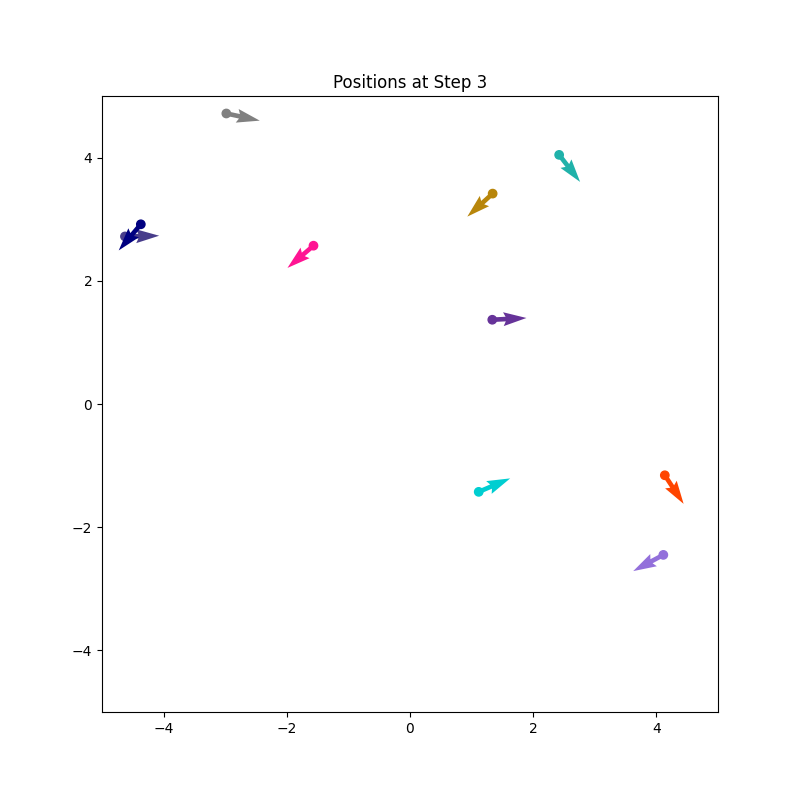
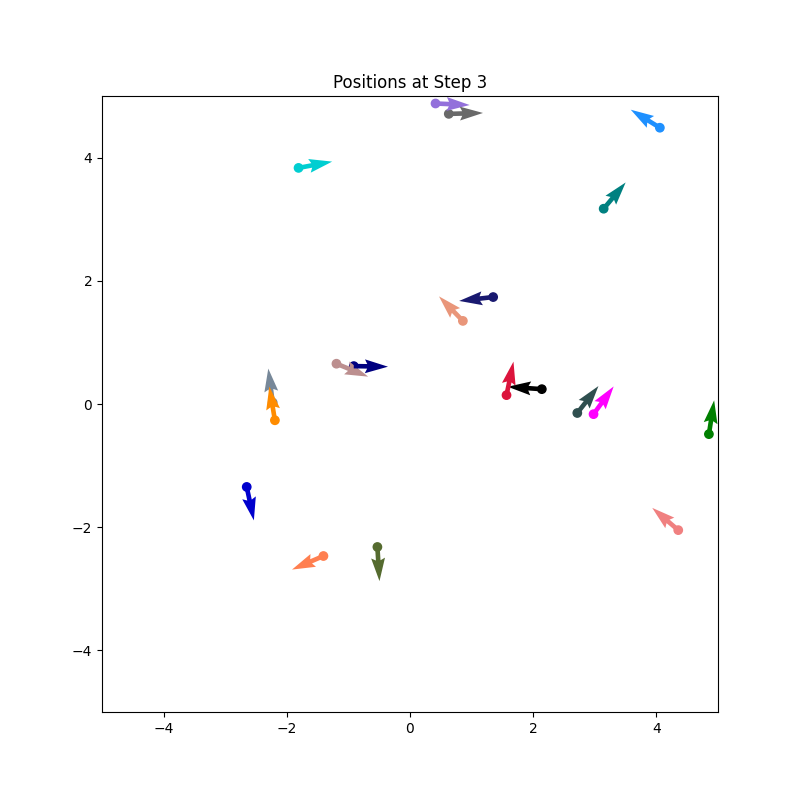
stericforces, compute_forces updated

diff --git a/Code/vicsek.py b/Code/vicsek.py
@@ -7,7 +7,7 @@ from squirmer import Squirmer
 
 class Vicsek_continous:
 
-    def __init__(self, N, R, L, v0, beta, radius, T, dt, noise):
+    def __init__(self, N, R, L, v0, beta, radius, Es, T, dt, noise):
         self.N = N
         self.R = R
         self.L = L
@@ -16,6 +16,7 @@ class Vicsek_continous:
         self.dt = dt
         self.noise = noise
         self.radius = radius
+        self.Es = Es
         self.size = L/R
         self.density = (N*R**2)/(L**2)
         self.ratio = v0/R
@@ -66,11 +67,11 @@ class Vicsek_continous:
         Dx = self.vector_x(particle1, particle2)
         Dy = self.vector_y(particle1, particle2)
         dist = self.distance(particle1, particle2)
-        #we set self.Es = 1 => Es/a = 1/a
-        tmp = -3*(1/a)*(2*(2*a/dist)**13-(2*a/dist)**7)/np.sqrt(dist)
-        print(tmp)
-        Fs_x = tmp * Dx
-        Fs_y = tmp * Dy
+
+        tmp = -3*(self.Es/a)*(2*(2*a/dist)**13-(2*a/dist)**7)/np.sqrt(dist)
+        print(f"tmp = {tmp}")
+        Fs_x =  Dx
+        Fs_y = Dy
         return Fs_x, Fs_y
 
     def ref_border_x(self, particle, boundary):
@@ -127,20 +128,20 @@ class Vicsek_continous:
             dist = self.dist_particles(particle)
             for j in range(len(dist)):
                 if dist[j] != 0 and dist[j]<=self.R:
-                    tmp_x, tmp_y = self.forcesSteric(particle, self.particles[j])
-                    self.Fs_x[i] += tmp_x
-                    self.Fs_y[i] += tmp_y
-                    self.Fs_x[j] -= tmp_x
-                    self.Fs_y[j] -= tmp_y           
+                    Fs_x, Fs_y = self.forcesSteric(particle, self.particles[j])
+                    particle.x -= self.dt*Fs_x
+                    particle.y -= self.dt*Fs_y
+                    self.particles[j].x += self.dt*Fs_x
+                    self.particles[j].y += self.dt*Fs_y        
 
     def update_position(self):
         #Update position of each particle
         self.compute_forces()
         for i, particle in enumerate(self.particles):
-            if self.Fs_x[i] != 0:
-                print(f"Fs_x{i} = {self.Fs_x[i]}")
-            if self.Fs_y[i] != 0:
-                print(f"Fs_y{i} = {self.Fs_y[i]}")
+            # if self.Fs_x[i] != 0:
+            #     print(f"Fs_x{i} = {self.Fs_x[i]}")
+            # if self.Fs_y[i] != 0:
+            #     print(f"Fs_y{i} = {self.Fs_y[i]}")
             particle.x += self.v0*self.dt*(np.cos(particle.orientation) + self.Fs_x[i])
             particle.y += self.v0*self.dt*(np.sin(particle.orientation) + self.Fs_y[i])
 
@@ -168,17 +169,18 @@ class Vicsek_continous:
         ax.set_ylim(-self.L / 2, self.L / 2)
         ax.set_aspect('equal')
 
-N = 10
+N = 20
 R = 0.25
 L = 10.0
 v0 = 1.0
 beta = 0.5
 radius = 0.1
-T = 10.0
-dt = 1
+T = 1
+dt = 0.1
 noise = 0.1
+Es = 1
 
-vicsek_model = Vicsek_continous(N, R, L, v0, beta, radius, T, dt, noise)
+vicsek_model = Vicsek_continous(N, R, L, v0, beta, radius, Es, T, dt, noise)
 
 #Plots initial positions and save the figure
 fig, ax = plt.subplots(figsize=(8, 8))
@@ -186,11 +188,11 @@ vicsek_model.plot(ax)
 plt.title("Initial Positions")
 plt.savefig("vicsek_initial_positions.png")
 plt.close()
-w = 0
-for particle in vicsek_model.particles:
-    print(f"x{w} = {particle.x}")
-    print(f"y{w} = {particle.y}")
-    w+=1
+# w = 0
+# for particle in vicsek_model.particles:
+#     print(f"x{w} = {particle.x}")
+#     print(f"y{w} = {particle.y}")
+#     w+=1
 polar = vicsek_model.polar_order_parameter()
 print(f"polar parameter = {polar}")
 
@@ -202,11 +204,11 @@ for step in range(num_steps):
     end_time = time.time()
     sim_time = end_time - start_time
     print(f"Simulation {step + 1} took {sim_time:.2f} seconds")
-    w = 0
-    for particle in vicsek_model.particles:
-        print(f"x{w} = {particle.x}")
-        print(f"y{w} = {particle.y}")
-        w+=1
+    # w = 0
+    # for particle in vicsek_model.particles:
+    #     print(f"x{w} = {particle.x}")
+    #     print(f"y{w} = {particle.y}")
+    #     w+=1
 
     polar = vicsek_model.polar_order_parameter()
     print(f"polar parameter = {polar}")
